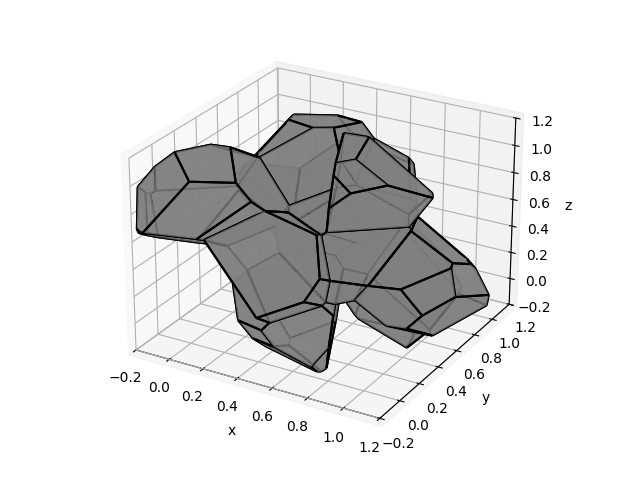
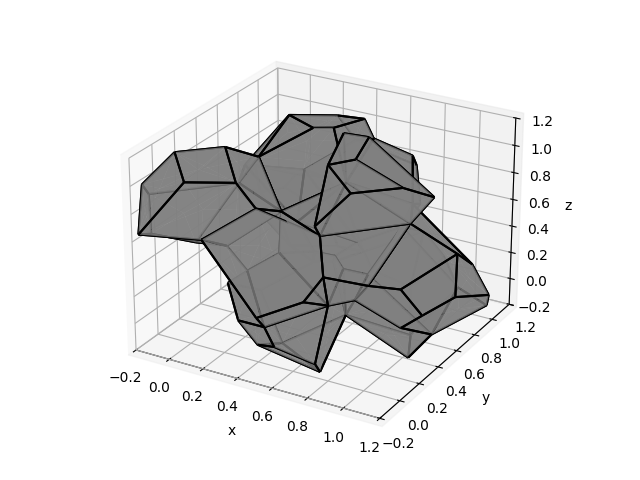
Updated figures

Changed region(s): [[0.1875, 0.2188, 0.75, 0.7812]]

diff --git a/README.md b/README.md
@@ -6,7 +6,7 @@ A unregularized and regularized tessellation is shown below:
 
 Unregularized structure with edges to be deleted | Regularized structure with edges deleted
 ------------- | -------------
-![](https://github.com/DanielThorM/tessToPy/blob/master/documentation/p_tessellation_nreg.png?raw=true) | ![](https://github.com/DanielThorM/tessToPy/blob/master/documentation/p_tessellation_nreg.png?raw=true)
+![](https://github.com/DanielThorM/tessToPy/blob/master/documentation/p_tessellation_nreg.png?raw=true) | ![](https://github.com/DanielThorM/tessToPy/blob/master/documentation/p_tessellation_reg.png?raw=true)
 
 The effect of regularization on the edge length distribution in a 400 cell tessellation is shown  below:
 ![](https://github.com/DanielThorM/tessToPy/blob/master/documentation/p_tessellation_edge_length_dist.png?raw=true)
